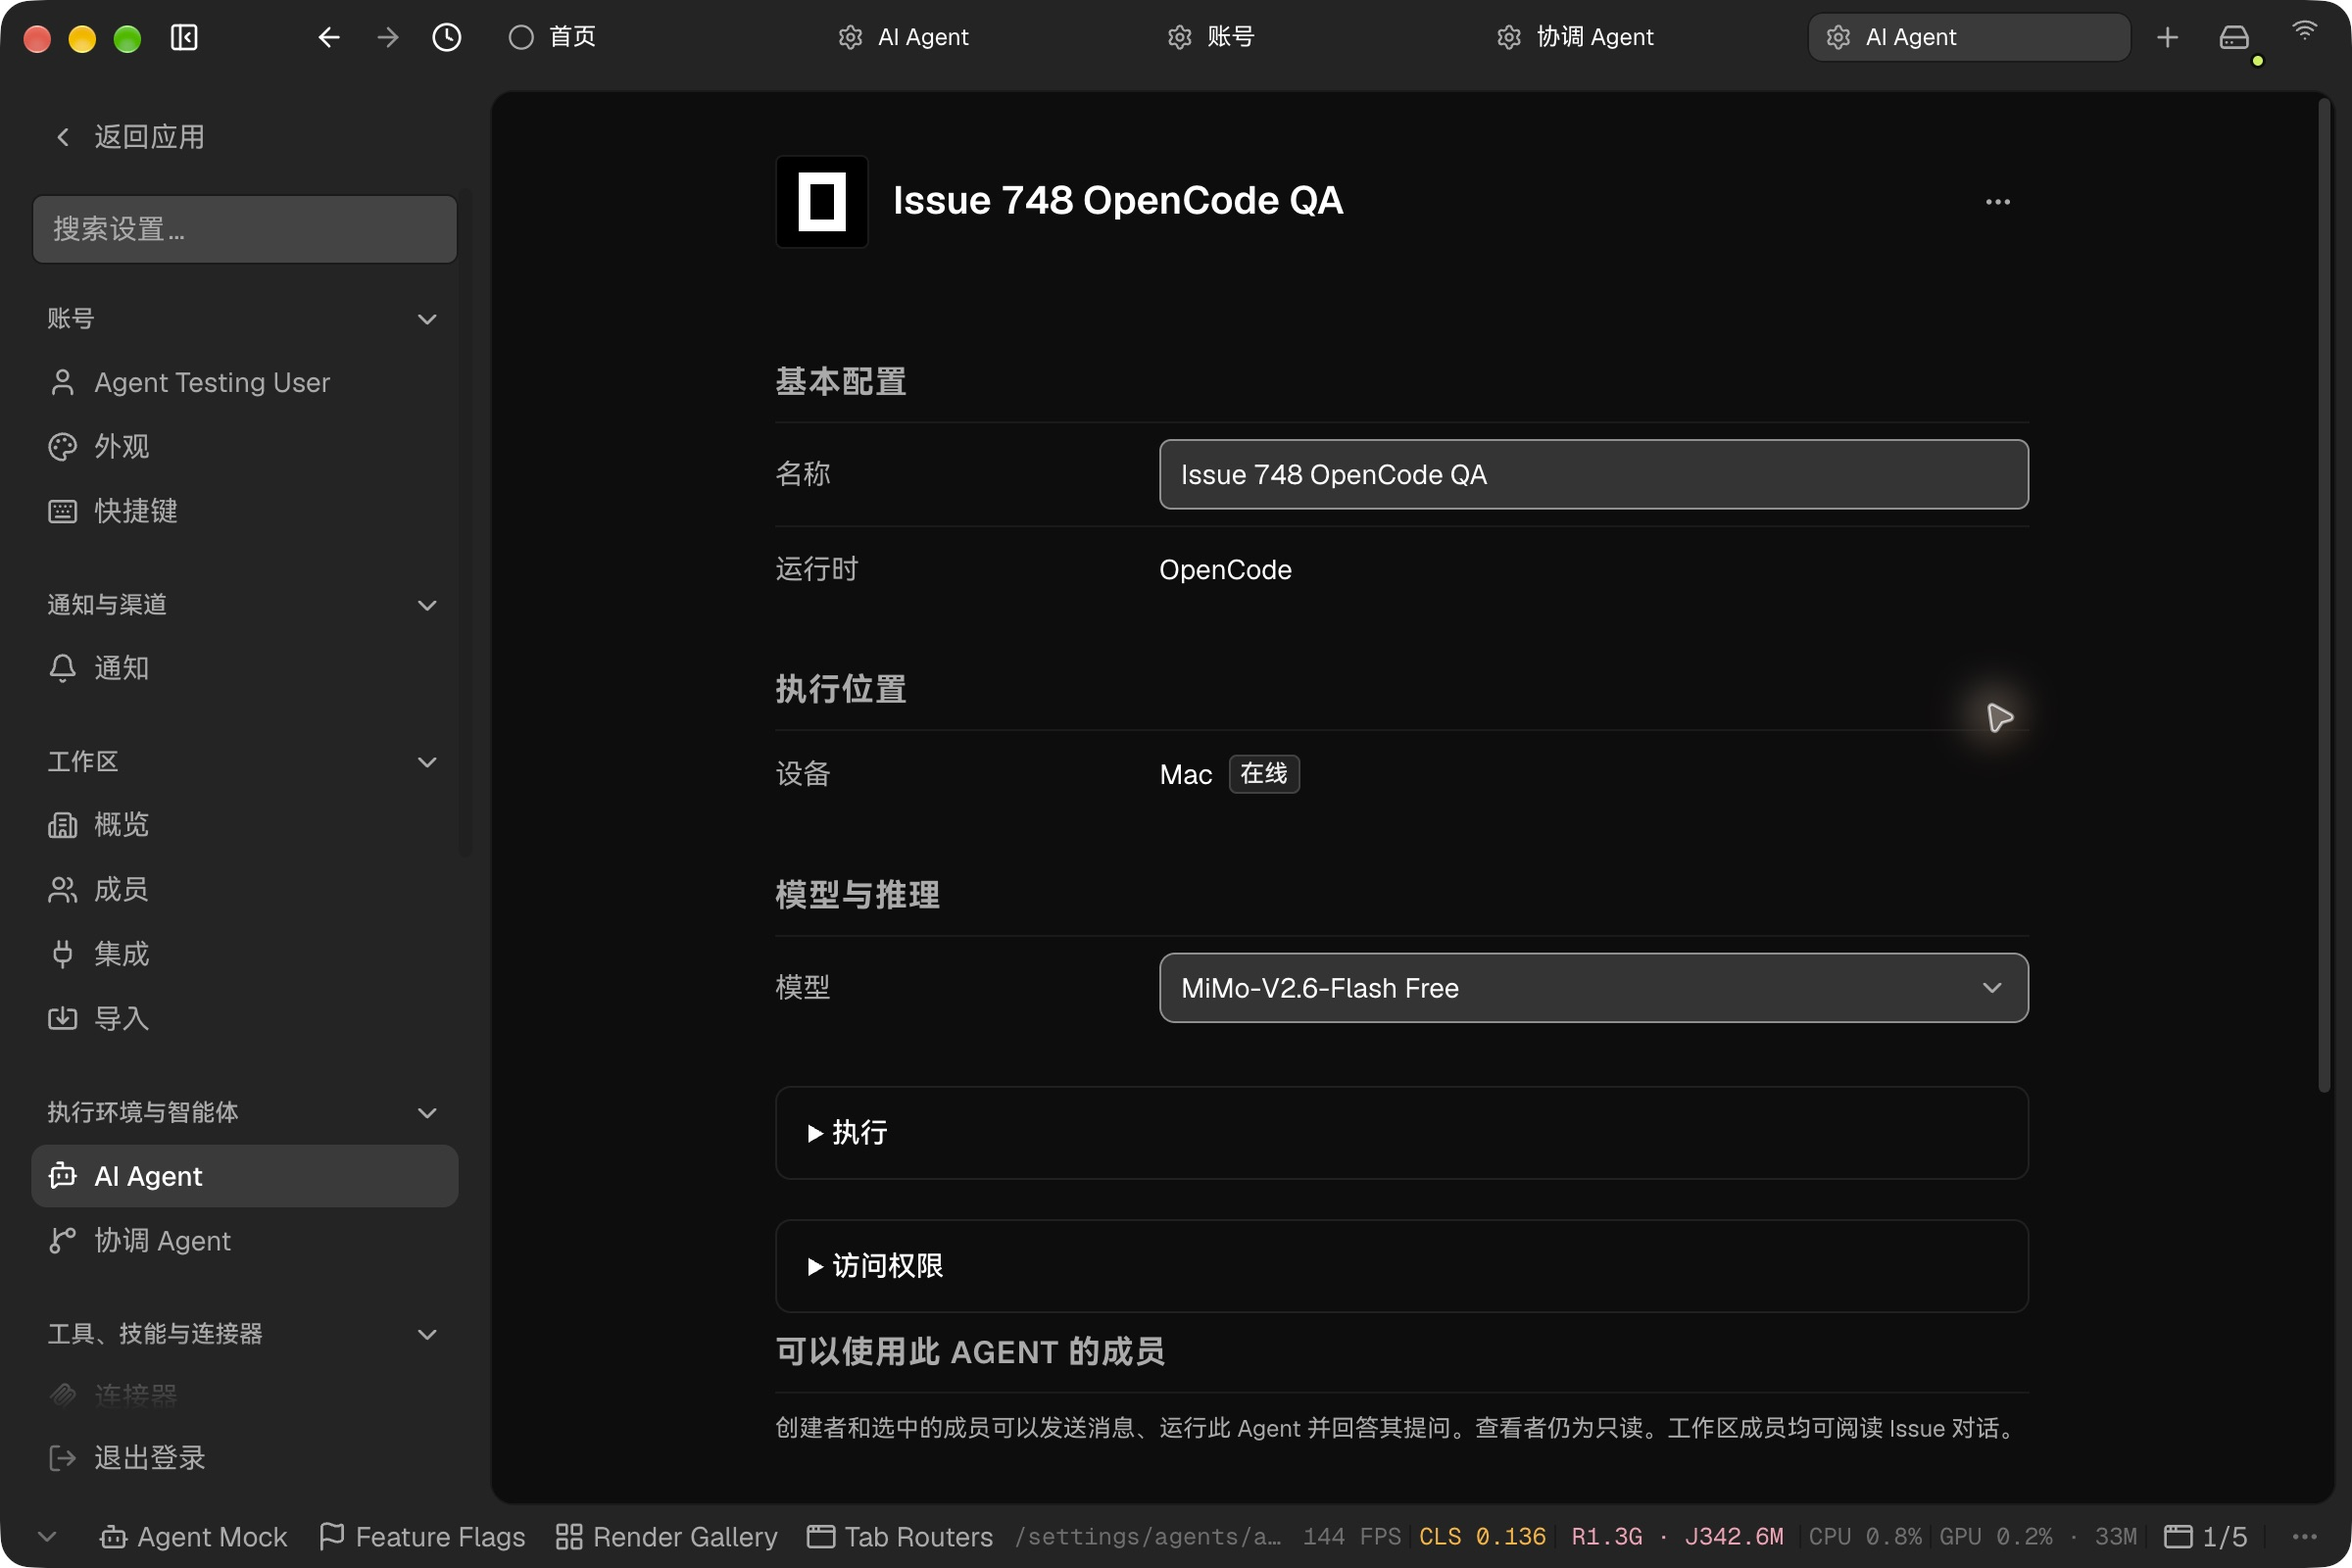
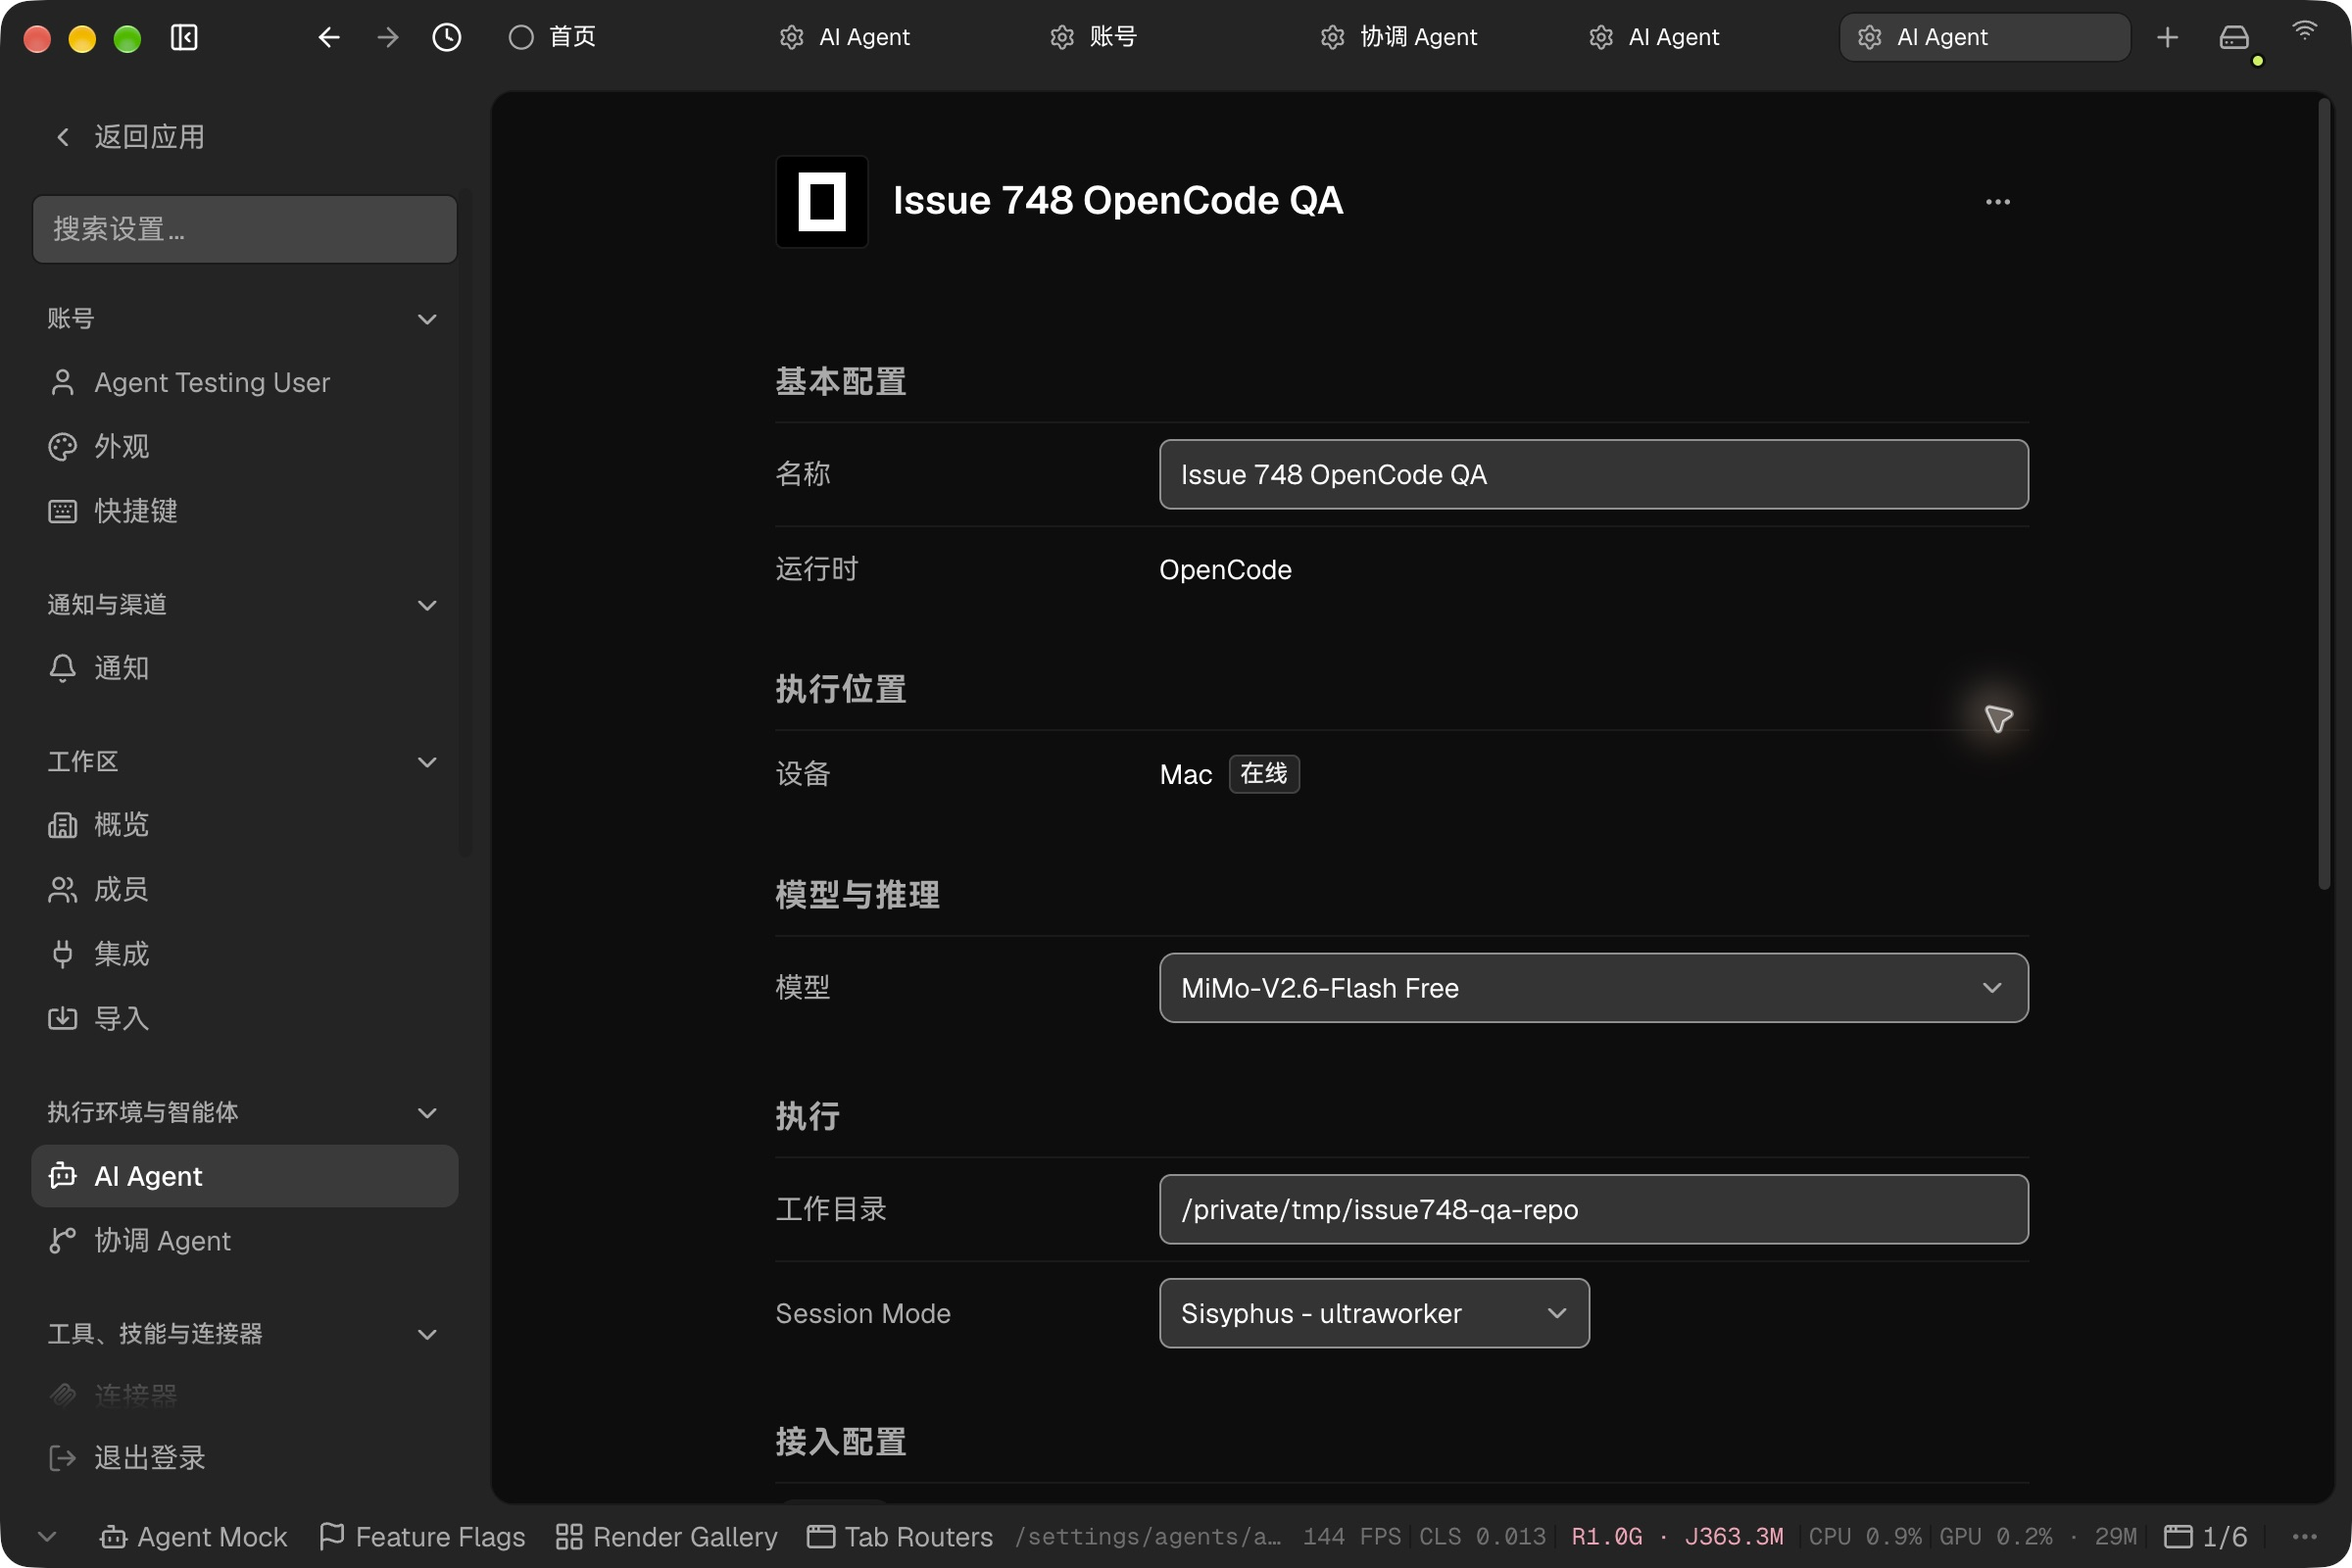
📸 docs: verify the rebased flat Agent settings in Electron

diff --git a/docs/development/evidence/issue-748/README.md b/docs/development/evidence/issue-748/README.md
@@ -19,7 +19,7 @@ The dedicated `issue748-qa-20261012` workspace uses disposable QA Agents and a t
 
 [Runtime records](runtime-results.json), [required-config responses](required-config-results.json), and [actual Electron run receipts](desktop-run-receipts.txt) provide the IDs and timestamps. Later commit `fe0a5a33f` only exposes the saved singleton-device binding in Agent settings; it does not change execution routing. Screenshots below cover that delivered UI separately.
 
-The final settings, copied-Agent chat and repeated blank-conversation captures use `fe0a5a33f3db80bb73ea48dbcbc08b8488765e5b`. The repeated blank conversation selects the QA Orchestrator after the previous conversation used the copied Agent. [Screenshot hashes](screenshot-sha256.json) identify the published files.
+The final flat settings and blank-conversation captures use `05f3c65c0c48940f472420449e0c0a4d75aea64c`, rebased onto `a51b741a9` to retain the new settings layout and native CLI catalogs. The copied-Agent chat capture uses `fe0a5a33f3db80bb73ea48dbcbc08b8488765e5b`. The repeated blank conversation selects the QA Orchestrator after the previous conversation used the copied Agent. [Screenshot hashes](screenshot-sha256.json) identify the published files.
 
 ## Electron screenshots
 
@@ -34,6 +34,8 @@ The composer chooses only an Agent. Its settings retain working directory and pe
 ## Automated checks and limits
 
 The server integration test uses real PGlite `workspace_user_settings` rows for two members with conflicting retired overrides and verifies both resolve the shared saved Agent device/model. Focused server, client, database, shared-types, CLI and UI suites passed during implementation; PR checks provide the full remote Typecheck and E2E results for the final head. No local `tsgo` was run.
+
+After rebasing, 119 settings/router tests and 123 shared-types/CLI catalog tests passed. The conflict resolution received an independent narrow review. The final Electron settings capture shows the flat form, saved online host, discovered model and retained working directory/Session Mode; it contains no member selection-policy controls.
 
 Only one physical host was available for this runtime run. Cross-member resolution and device changes are covered by server integration/admission tests; executing on a second physical machine was not verified. The existing duplicate API works, but no duplicate action was found in the current settings menu. This issue adds no new duplication flow.
 
